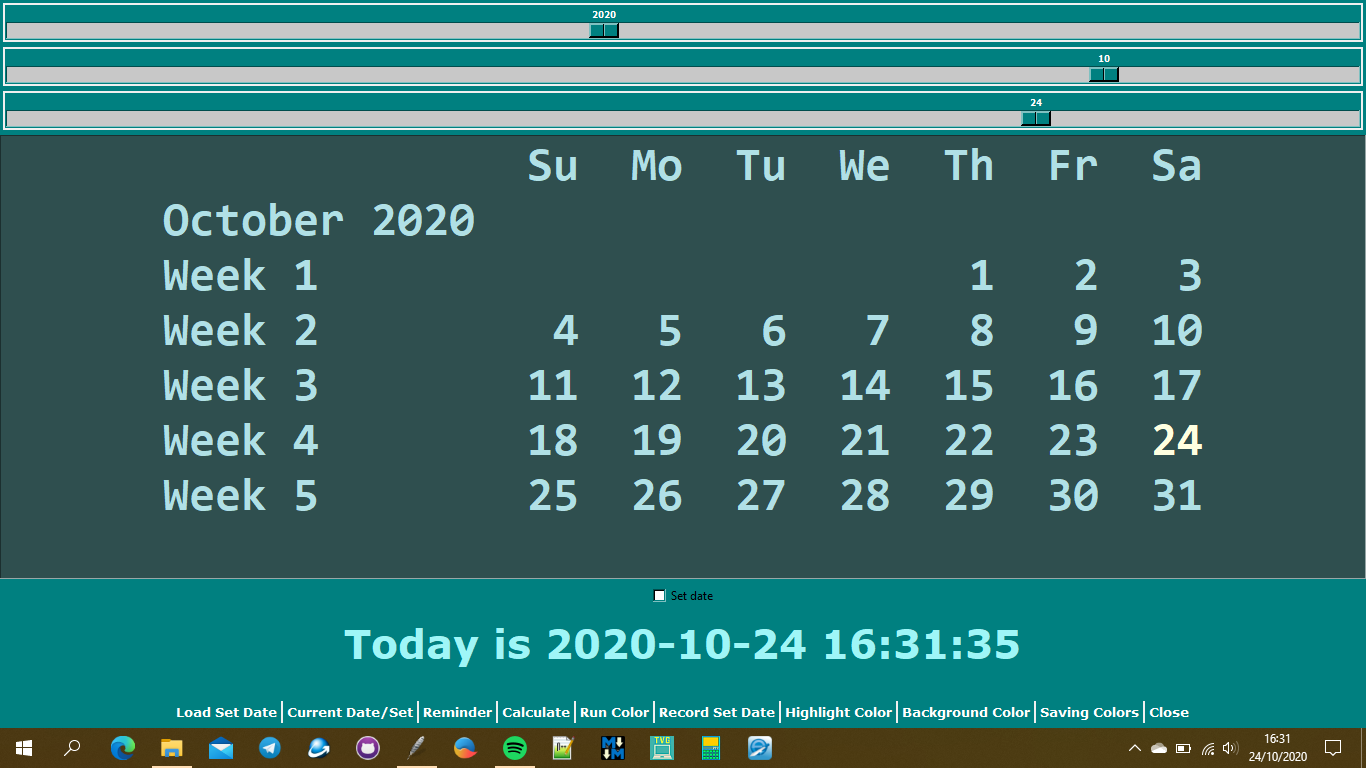
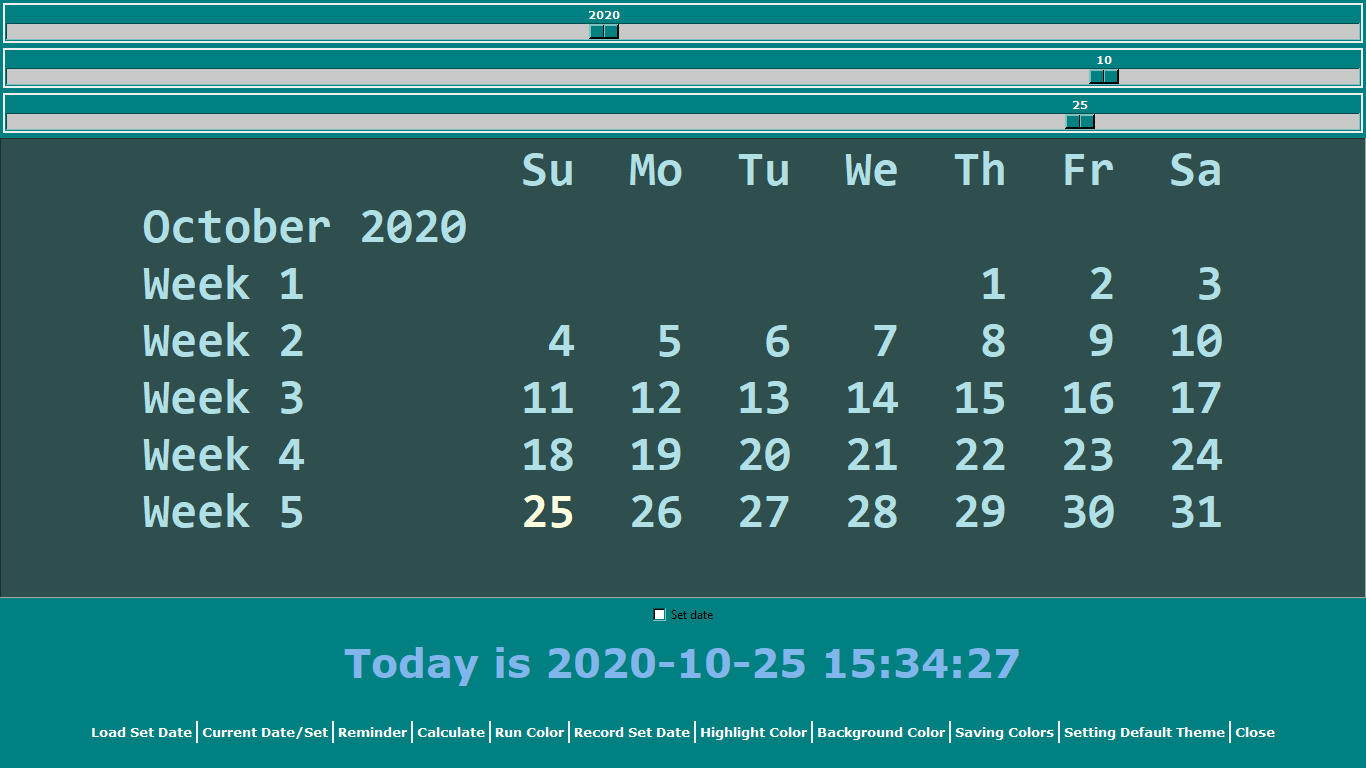
❤ Add set theme colors  as default
Changes:
- Zoomed state
- Font use Consolas
- Scales size change
- Buttons display modified (better looking 😊)

diff --git a/Code/CalGui.py b/Code/CalGui.py
@@ -13,6 +13,7 @@ from tkinter import simpledialog, messagebox
 import calendar as cal
 import pandas as pd
 import datetime as dt
+import os
 
 class ChoCal:
     """Creating Calendar engine."""
@@ -68,7 +69,7 @@ class CalGui:
         self.sd = []
         self.rdr =[]
         self.txfile =''
-        self.root.geometry(f"{self.root.winfo_screenwidth()}x{self.root.winfo_screenheight()-20}+0+0")
+        self.root.state('zoomed')
         self.root.overrideredirect(True)
         self.root.config(background = 'teal') 
         self.root.bind_all('<Control-Left>', self.mtc)
@@ -96,7 +97,7 @@ class CalGui:
         self.sc3.set(dt.datetime.today().day)
         self.sc3.pack(pady = 3, padx = 3 , fill = 'both')
         self.bt['sc3'] = self.sc3
-        self.text = Text(self.root, font = 'consolas 35 bold', height = 8, background ='light blue',
+        self.text = Text(self.root, font = 'consolas 37 bold', height = 8, background ='light blue',
                          foreground='indigo', relief = SUNKEN)
         self.text.tag_add('bd', '1.0', END)
         self.text.tag_config('bd', justify = 'center')
@@ -171,12 +172,30 @@ class CalGui:
         self.setb.bind_all('<Control-s>', self.savs)
         self.setb.pack(side = LEFT, padx = (0, 2))
         self.bt['setb'] = (self.setb, '<Control-s>', self.savs)
+        self.setd = Button(self.frb, text = 'Setting Default Theme', command = self.setcor, 
+                           bg = 'teal', fg = 'white', activebackground = 'green', 
+                           activeforeground = 'white', highlightthickness = 0, bd = 0, font = 'verdana 10 bold')
+        self.setd.bind_all('<Control-d>', self.setcor)
+        self.setd.pack(side = LEFT, padx = (0, 2))
+        self.bt['setd'] = (self.setd, '<Control-d>', self.setcor)        
         self.but = Button(self.frb, text = 'Close', command = self.root.destroy, 
                          bg = 'teal', fg = 'white', activebackground = 'black', 
                          activeforeground = 'white', highlightthickness = 0, bd = 0, font = 'verdana 10 bold')
         self.but.pack(side = LEFT)
         self.bt['but'] = self.but
-                
+        
+        if 'Calset' in os.listdir():
+            orpa = os.getcwd()
+            os.chdir('Calset')
+            if 'setnext.txt' in os.listdir():
+                with open('setnext.txt') as setfile:
+                    sf = eval(setfile.read())
+                self.text.tag_config('hg', background = sf[0], 
+                                     foreground= sf[1])
+                self.label.config(foreground = sf[2])
+                self.text.config(background = sf[3], foreground= sf[4])
+            os.chdir(orpa)
+            
     def dtc(self, event = None):
         # Moving the scale of the day.
         
@@ -258,9 +277,8 @@ class CalGui:
                 if int(f) < 0:
                     return f'{c} have passed to today {dt.date.isoformat(dt.datetime.today())}'
                 elif int(f) > 0:
-                    return f'{c} to go from today {dt.date.isoformat(dt.datetime.today())}' 
-
-    
+                    return f'{c} to go from today {dt.date.isoformat(dt.datetime.today())}'
+                
     def tn(self):
         #Running the seconds display and colored them.
         
@@ -333,7 +351,6 @@ class CalGui:
     def recdat(self, event = None):
         #Saving event for specific date that has been set, and recorded.
         
-        import os
         dirc = os.getcwd()
         if 'Caldata' == dirc[dirc.rfind("\\")+1:]:
             file = simpledialog.askstring('CalGui', 'File name create?')
@@ -369,7 +386,7 @@ class CalGui:
         #Load a date base on the event that has been saved.
         
         if CalGui.TOP is None:
-            import os
+            
             dirc = os.getcwd()
             if 'Caldata' == dirc[dirc.rfind("\\")+1:]:
                 files = [i for i in os.listdir() if '.' in i]
@@ -527,7 +544,7 @@ class CalGui:
                 messagebox.showwarning('CalGui', 'Nothing found!!!')
                     
     def rem(self, event = None):
-        #Making reminder like alarm, but a window will pop-up.
+        #Making reminder like alarm, a window will pop-up and a beep sound.
         
         if not self.rdr:
             self.entry.config(background = 'green', foreground = 'white')
@@ -573,8 +590,6 @@ class CalGui:
                     td = td-(i*pt[i])
             td = sum([k*l for k,l in pt.items()])
             
-            assert td == de.days
-            
             if td:
                 nt = ['years', 'months', 'weeks', 'days']
                 tm = list(pt)
@@ -593,6 +608,7 @@ class CalGui:
                     else:
                         self.lvar.set(f"{td} day left.")
             else:
+                CalGui.SELF = True
                 self.label.config(font = 'verdana 30 bold')
                 self.label.pack(pady = 7)
                 messagebox.showinfo('CalGui', 'No days left!')
@@ -603,12 +619,11 @@ class CalGui:
             self.label.pack(pady = 7)
             self.lvar.set(self.cald())
             
-
     def colorh(self, event = None):
         #Changing color on the highlight and the foreground.
         
         from CreateColors import create_colors as cco
-        import os
+        
         if not CalGui.TOP:    
             if not 'tkcols.txt' in os.listdir():
                 cco()
@@ -679,12 +694,12 @@ class CalGui:
             rbt2.pack(pady = 2, padx = 5)
             CalGui.TOP = tl
             spb.focus_set()
- 
+            
     def calbg(self, event = None):
         #Changing colors for the Calendar background and foreground(the text).
         
         from CreateColors import create_colors as cco
-        import os
+        
         if not CalGui.TOP:
             if not 'tkcols.txt' in os.listdir():
                 cco()
@@ -704,7 +719,7 @@ class CalGui:
                         self.text.configure(foreground = lc[lc.index(spb2.get())])
                 except:
                     pass
-            
+                 
             def chc(event = None):
                 CalGui.TOP = None
                 cco()
@@ -722,7 +737,7 @@ class CalGui:
                         if i != 'text':
                             self.bt[i].config(state = 'normal')                
                 tl.destroy()
-            
+                
             def fcs(event = None):
                 if event.keysym == 'f':
                     spb2.focus()
@@ -730,7 +745,7 @@ class CalGui:
                     rt2.set(False)
                 elif event.keysym == 'g':
                     rt2.set(True)
-            
+                    
             for i in self.bt:
                 if isinstance(self.bt[i], tuple):
                     self.bt[i][0].config(state = 'disable')
@@ -761,7 +776,6 @@ class CalGui:
         #Saving the color theme that has been set.
         
         import json
-        import os
         
         dirc = os.getcwd()
         if 'Calset' in os.listdir():
@@ -840,7 +854,7 @@ class CalGui:
                     cfore = self.text.cget("foreground")
                     messagebox.showinfo('Info setting Now', 
                     f'Highlight: {hback}\nForeground: {hfore}\nLabel Color: {labc}\nCalBackground: {cback}\nCalForeground: {cfore}')
-                
+                    
                 def delsett(event = None):
                     rw = int(ev.get()[:ev.get().find(':')])
                     with open('stc.txt') as sett:
@@ -874,7 +888,7 @@ class CalGui:
                                 self.bt[i].config(state = 'normal')
                     os.chdir(dirc)
                     tl.destroy()
-                
+                    
                 for i in self.bt:
                     if isinstance(self.bt[i], tuple):
                         self.bt[i][0].config(state = 'disable')
@@ -912,10 +926,47 @@ class CalGui:
                 messagebox.showinfo('CalGui', 'No colors saved yet!')
                 os.chdir(dirc)
                 
+    def setcor(self, event = None):
+        # Setting the theme colors as default.
+        
+        dirc = os.getcwd()
+        if 'Calset' in os.listdir():
+            os.chdir('Calset')
+        else:
+            os.mkdir('Calset')
+            os.chdir('Calset')
+        if 'setnext.txt' in os.listdir():
+            ask = messagebox.askyesno('CalGui', '"Yes" Delete theme setting, "No" Save existing theme')
+            if ask:
+                os.remove('setnext.txt')
+                messagebox.showinfo('CalGui', 'The setting back to original')
+            else:
+                tak = [self.text.tag_cget("hg","background"),
+                       self.text.tag_cget("hg","foreground"),
+                       str(self.label.cget("foreground")),
+                       str(self.text.cget("background")),
+                       str(self.text.cget("foreground")),
+                      ]
+                tak = {i: j for i, j in enumerate(tak)}
+                with open('setnext.txt', 'w') as stf:
+                    stf.write(str(tak))
+                messagebox.showinfo('CalGui', 'This theme will be set as default theme!')
+        else:
+            tak = [self.text.tag_cget("hg","background"),
+                   self.text.tag_cget("hg","foreground"),
+                   str(self.label.cget("foreground")),
+                   str(self.text.cget("background")),
+                   str(self.text.cget("foreground")),
+                  ]
+            tak = {i: j for i, j in enumerate(tak)}
+            with open('setnext.txt', 'w') as stf:
+                stf.write(str(tak))
+            messagebox.showinfo('CalGui', 'This theme will be set as default theme!')            
+        os.chdir(dirc)
+
 def main():
     #Starting the app.
     
-    import os
     if 'Caldata' in os.listdir():
         os.chdir('Caldata')
     else:

diff --git a/README.md b/README.md
@@ -4,5 +4,5 @@
 * **Years set from 1800 - 2300.**
 * **Changes Colors on Highlight and Calendar Backgorund.**
 * **Save event on set date checked.**
-* **Reminder like alarm without sound, but a pop-up window.**
+* **Reminder like alarm with~~out~~ sound and  a pop-up window.**
 * **User need to download Pandas first for this app to work. [https://github.com/pandas-dev/pandas]**
